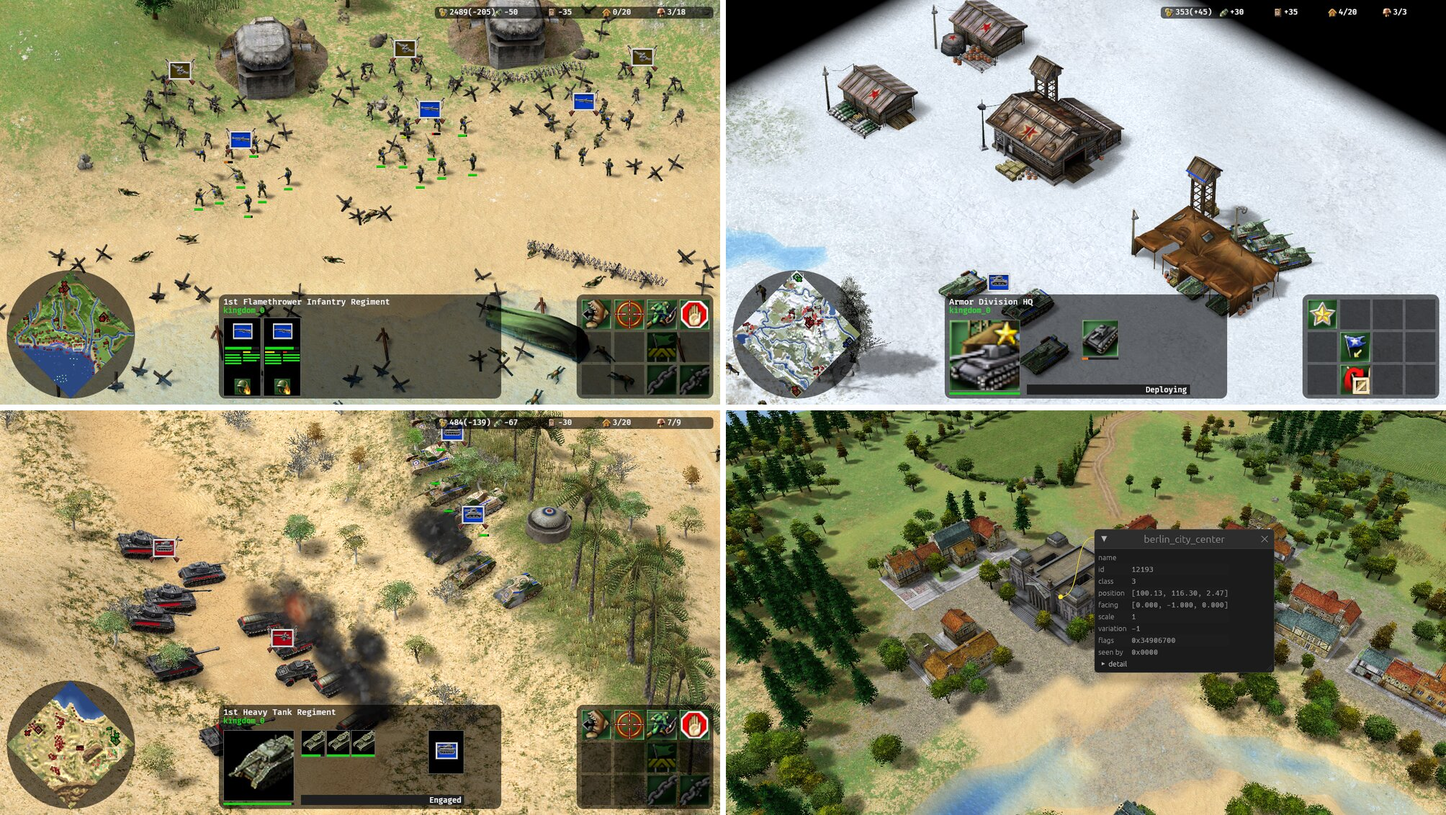
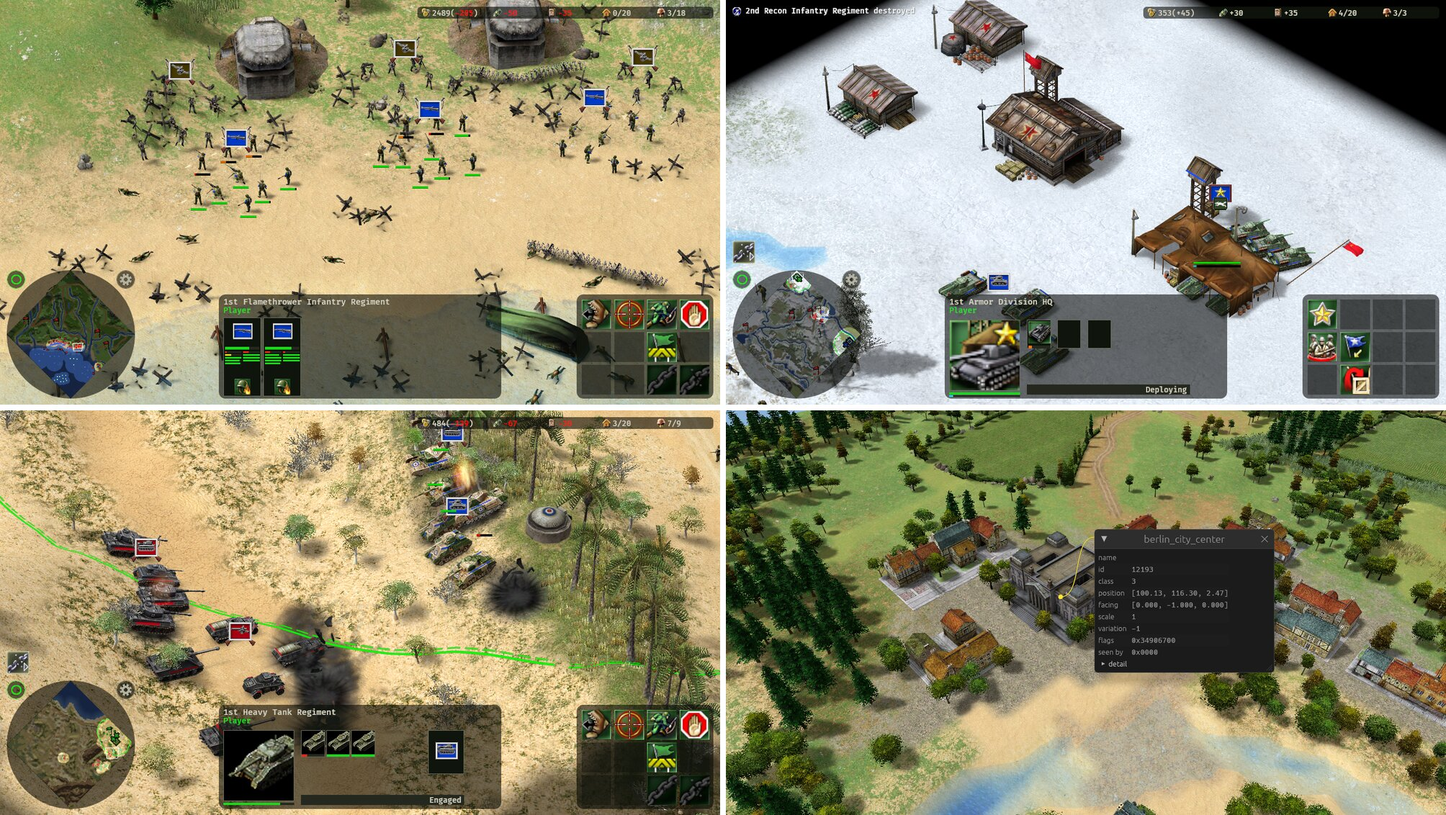
Draw the technology tab as a round gear button like the supply border's, and refresh the README screenshots (#198)

diff --git a/crates/game/src/technologies.rs b/crates/game/src/technologies.rs
@@ -1,20 +1,22 @@
 //! The technology display: a window listing the technologies the player's
-//! side holds, opened by a tab beside the minimap or its key. The match
+//! side holds, opened by a button beside the minimap or its key. The match
 //! holds still while it's up, unless it was already.
 
 use std::collections::HashMap;
 
 use aaa_data::{Id, PropertyLook};
 use aaa_render::textures;
+use bevy::asset::RenderAssetUsages;
 use bevy::image::CompressedImageFormatSupport;
 use bevy::picking::hover::Hovered;
 use bevy::prelude::*;
+use bevy::render::render_resource::{Extent3d, TextureDimension, TextureFormat};
 use bevy::ui::RelativeCursorPosition;
 use bevy::ui_widgets::{Activate, Button, ScrollArea};
 
 use crate::actions::Blocks;
 use crate::keys::Bindings;
-use crate::ui::{self, Click, Font, Hint, Ink, Marked, Surface, label, panel};
+use crate::ui::{self, Click, Edge, Font, Hint, Ink, Marked, Surface, Theme, label, panel};
 use crate::{Loaded, Local, Screen, Sim, minimap};
 
 /// What the keys that open, close and close every display panel are
@@ -23,9 +25,10 @@ pub const OPEN: &str = "ButtonTechnology";
 const CLOSE: &str = "TechnologyDisplayClose";
 const CLOSE_ALL: &str = "CloseSideOrDisplayPanel";
 
-const TAB: &str = "UI/Game/ControlPanel/SidePanelTabTechnologyUnselected.tga";
-const TAB_HELD: &str = "UI/Game/ControlPanel/SidePanelTabTechnologySelected.tga";
-const TAB_SIZE: Vec2 = Vec2::new(40.0, 52.0);
+const GEAR_SIZE: f32 = 22.0;
+/// The gear's texels across, more than it's drawn at so it stays crisp
+/// once the interface is scaled up.
+const GEAR_TEXELS: u32 = 64;
 const NAME: &str = "control_panel_ButtonTechnology_ToolTip";
 const HELP: &str = "control_panel_ButtonTechnology_tooltip_2";
 const TITLE: &str = "technology_display_Child_text";
@@ -54,9 +57,7 @@ pub struct TechDisplay {
 struct Looks {
     lines: HashMap<Id, Line>,
     formats: bevy::image::CompressedImageFormats,
-    tab: Option<Handle<Image>>,
-    tab_held: Option<Handle<Image>>,
-    /// The tab's name, to mark its key in.
+    /// The button's name, to mark its key in.
     name: String,
 }
 
@@ -68,8 +69,14 @@ struct Line {
     hint: String,
 }
 
+/// The button at the minimap's corner that opens the window: a gear in a
+/// ring like the supply border's button, lit while the window's up.
 #[derive(Component)]
-struct Tab;
+struct TechButton;
+
+/// The gear in the [`TechButton`].
+#[derive(Component)]
+struct Gear;
 
 #[derive(Component)]
 struct TechWindow;
@@ -85,7 +92,7 @@ impl Plugin for TechnologyPlugin {
             .add_systems(OnEnter(Screen::Match), spawn)
             .add_systems(
                 Update,
-                (keys, press_tab, refresh)
+                (keys, refresh)
                     .chain()
                     .after(crate::pause::Toggle)
                     .run_if(in_state(Screen::Match))
@@ -95,7 +102,11 @@ impl Plugin for TechnologyPlugin {
             )
             .add_systems(
                 Update,
-                mark_tab
+                light_button.after(keys).run_if(in_state(Screen::Match)),
+            )
+            .add_systems(
+                Update,
+                mark_button
                     .run_if(resource_exists_and_changed::<Bindings>)
                     .run_if(resource_exists::<Looks>)
                     .run_if(in_state(Screen::Match)),
@@ -115,6 +126,7 @@ pub fn closed(display: Option<Res<TechDisplay>>) -> bool {
 
 fn spawn(
     mut commands: Commands,
+    mut gear_image: bevy::prelude::Local<Option<Handle<Image>>>,
     mut loaded: ResMut<Loaded>,
     mut images: ResMut<Assets<Image>>,
     formats: Res<CompressedImageFormatSupport>,
@@ -123,11 +135,7 @@ fn spawn(
     let game = &mut loaded.game;
     let strings = game.strings();
     let said = |key: &str, or: &str| strings.get(key).map_or(or, String::as_str).to_string();
-    let mut image = |path: &str| {
-        let image = textures::decode(&game.read(path)?, path, formats.0, true)?;
-        Some(images.add(image))
-    };
-    let (tab, tab_held) = (image(TAB), image(TAB_HELD));
+    let gear = (gear_image.get_or_insert_with(|| images.add(gear(GEAR_TEXELS)))).clone();
     let looks: HashMap<Id, PropertyLook> = game.property_looks();
     let lines = (game.technologies().into_iter())
         .filter_map(|(id, t)| {
@@ -152,26 +160,41 @@ fn spawn(
     commands.insert_resource(TechDisplay::default());
     commands
         .spawn((
-            Tab,
+            TechButton,
             Blocks,
             Button,
             Click::PUSH,
             RelativeCursorPosition::default(),
             bindings.marked(OPEN, &name),
             Hint(said(HELP, "Displays a list of all your technologies.")),
-            ImageNode::new(tab.clone().unwrap_or_default()),
             // At the minimap square's other top corner from the supply
             // border's button.
             Node {
                 position_type: PositionType::Absolute,
-                left: px(crate::MARGIN + minimap::DISC - TAB_SIZE.x),
-                bottom: px(crate::MARGIN + minimap::DISC - TAB_SIZE.y),
-                width: px(TAB_SIZE.x),
-                height: px(TAB_SIZE.y),
+                left: px(crate::MARGIN + minimap::DISC - minimap::CORNER_BUTTON),
+                bottom: px(crate::MARGIN + minimap::DISC - minimap::CORNER_BUTTON),
+                width: px(minimap::CORNER_BUTTON),
+                height: px(minimap::CORNER_BUTTON),
+                border: UiRect::all(px(1)),
+                border_radius: BorderRadius::MAX,
+                justify_content: JustifyContent::Center,
+                align_items: AlignItems::Center,
                 ..default()
             },
+            Surface::Hud,
+            Edge::Border,
             GlobalZIndex(2),
             DespawnOnExit(Screen::Match),
+            children![(
+                Gear,
+                ImageNode::new(gear),
+                Node {
+                    width: px(GEAR_SIZE),
+                    height: px(GEAR_SIZE),
+                    ..default()
+                },
+                Pickable::IGNORE,
+            )],
         ))
         .observe(|_: On<Activate>, mut toggling: Toggling| toggling.toggle());
     let at = |v: f32, of: f32| percent(100.0 * v / of);
@@ -229,16 +252,18 @@ fn spawn(
     commands.insert_resource(Looks {
         lines,
         formats: formats.0,
-        tab,
-        tab_held,
         name,
     });
 }
 
-/// Marks the tab's key afresh once the hotkeys change.
-fn mark_tab(bindings: Res<Bindings>, looks: Res<Looks>, mut tabs: Query<&mut Marked, With<Tab>>) {
-    for mut tab in &mut tabs {
-        tab.set_if_neq(bindings.marked(OPEN, &looks.name));
+/// Marks the button's key afresh once the hotkeys change.
+fn mark_button(
+    bindings: Res<Bindings>,
+    looks: Res<Looks>,
+    mut buttons: Query<&mut Marked, With<TechButton>>,
+) {
+    for mut button in &mut buttons {
+        button.set_if_neq(bindings.marked(OPEN, &looks.name));
     }
 }
 
@@ -302,22 +327,91 @@ fn keys(keys: Res<ButtonInput<KeyCode>>, bindings: Res<Bindings>, mut toggling: 
     }
 }
 
-/// Shows the tab held down while it's pressed.
-fn press_tab(
-    looks: Res<Looks>,
-    mut tabs: Query<(Has<bevy::ui::Pressed>, &mut ImageNode), With<Tab>>,
+/// What [`light_button`] reads and sets on the button.
+type ButtonLook = (
+    Ref<'static, Hovered>,
+    Has<bevy::ui::Pressed>,
+    &'static mut Edge,
+    &'static mut Surface,
+);
+
+/// Lights the button while the window's up, its edge while it's hovered,
+/// and its face while it's held down.
+fn light_button(
+    display: Option<Res<TechDisplay>>,
+    theme: Res<Theme>,
+    mut buttons: Query<ButtonLook, With<TechButton>>,
+    mut gears: Query<&mut ImageNode, With<Gear>>,
 ) {
-    for (pressed, mut image) in &mut tabs {
-        let want = match pressed {
-            true => &looks.tab_held,
-            false => &looks.tab,
-        };
-        if let Some(want) = want
-            && image.image != *want
-        {
-            image.image = want.clone();
+    let Some(display) = display else { return };
+    let restyle = display.is_changed() || theme.is_changed();
+    for (hovered, pressed, mut edge, mut surface) in &mut buttons {
+        if restyle || hovered.is_changed() {
+            edge.set_if_neq(Edge::lit(display.open, hovered.get(), Edge::Border));
+        }
+        surface.set_if_neq(match pressed {
+            true => Surface::Hovered,
+            false => Surface::Hud,
+        });
+    }
+    if !restyle {
+        return;
+    }
+    let colour = match display.open {
+        true => theme.edge(Edge::Lit),
+        false => theme.ink(Ink::Help),
+    };
+    for mut gear in &mut gears {
+        if gear.color != colour {
+            gear.color = colour;
         }
     }
+}
+
+/// A white gear `texels` across on a clear ground, to be tinted.
+fn gear(texels: u32) -> Image {
+    const TEETH: f32 = 8.0;
+    const OUTER: f32 = 1.0;
+    const ROOT: f32 = 0.7;
+    const HOLE: f32 = 0.32;
+    // Each texel's coverage from a grid of samples across it.
+    const SAMPLES: u32 = 4;
+    let half = texels as f32 / 2.0;
+    let inside = |x: f32, y: f32| {
+        let (x, y) = ((x - half) / half, (y - half) / half);
+        let d = (x * x + y * y).sqrt();
+        let turn = (y.atan2(x) / std::f32::consts::TAU * TEETH).rem_euclid(1.0);
+        let rim = match (0.25..0.75).contains(&turn) {
+            true => OUTER,
+            false => ROOT,
+        };
+        d > HOLE && d < rim
+    };
+    let mut data = Vec::with_capacity((texels * texels * 4) as usize);
+    for v in 0..texels {
+        for u in 0..texels {
+            let mut hits = 0;
+            for j in 0..SAMPLES {
+                for i in 0..SAMPLES {
+                    let at = |t: u32, s: u32| t as f32 + (s as f32 + 0.5) / SAMPLES as f32;
+                    hits += inside(at(u, i), at(v, j)) as u32;
+                }
+            }
+            let alpha = (255 * hits / (SAMPLES * SAMPLES)) as u8;
+            data.extend_from_slice(&[255, 255, 255, alpha]);
+        }
+    }
+    Image::new(
+        Extent3d {
+            width: texels,
+            height: texels,
+            depth_or_array_layers: 1,
+        },
+        TextureDimension::D2,
+        data,
+        TextureFormat::Rgba8UnormSrgb,
+        RenderAssetUsages::default(),
+    )
 }
 
 /// Brings the open window's list up to date: at once on opening, then once

diff --git a/crates/game/src/supply.rs b/crates/game/src/supply.rs
@@ -194,7 +194,6 @@ pub struct BorderButton {
 #[derive(Component)]
 pub struct BorderRing;
 
-const BORDER_SIZE: f32 = 34.0;
 const RING_SIZE: f32 = 18.0;
 const BORDER_NAME: &str = "control_panel_ButtonSupplyBorder_ToolTip";
 const BORDER_HELP: &str = "control_panel_ButtonSupplyBorder_tooltip_2";
@@ -243,9 +242,9 @@ pub fn spawn(
             Node {
                 position_type: PositionType::Absolute,
                 left: px(crate::MARGIN),
-                bottom: px(crate::MARGIN + minimap::DISC - BORDER_SIZE),
-                width: px(BORDER_SIZE),
-                height: px(BORDER_SIZE),
+                bottom: px(crate::MARGIN + minimap::DISC - minimap::CORNER_BUTTON),
+                width: px(minimap::CORNER_BUTTON),
+                height: px(minimap::CORNER_BUTTON),
                 border: UiRect::all(px(1)),
                 border_radius: BorderRadius::MAX,
                 justify_content: JustifyContent::Center,
@@ -407,11 +406,7 @@ pub fn show_border_button(
             button.pressed = false;
         }
         if restyle || hovered.is_changed() {
-            edge.set_if_neq(match (border.0, hovered.get()) {
-                (true, _) => Edge::Lit,
-                (false, true) => Edge::Hovered,
-                (false, false) => Edge::Border,
-            });
+            edge.set_if_neq(Edge::lit(border.0, hovered.get(), Edge::Border));
         }
     }
     if !restyle {

diff --git a/crates/game/src/ui.rs b/crates/game/src/ui.rs
@@ -192,6 +192,18 @@ pub enum Edge {
     Lit,
 }
 
+impl Edge {
+    /// Frames a button that switches something on: lit while it's on, else
+    /// hovered while it's under the pointer, else `idle`.
+    pub fn lit(on: bool, hovered: bool, idle: Edge) -> Edge {
+        match (on, hovered) {
+            (true, _) => Edge::Lit,
+            (false, true) => Edge::Hovered,
+            (false, false) => idle,
+        }
+    }
+}
+
 /// How brightly a picture is drawn.
 #[derive(Component, Clone, Copy, PartialEq, Eq, Debug)]
 #[require(ImageNode)]

diff --git a/crates/game/src/actions.rs b/crates/game/src/actions.rs
@@ -1090,11 +1090,7 @@ pub fn show(
                 },
             });
         }
-        border.set_if_neq(match (lit, hover.get() && ready) {
-            (true, _) => Edge::Lit,
-            (false, true) => Edge::Hovered,
-            (false, false) => Edge::Clear,
-        });
+        border.set_if_neq(Edge::lit(lit, hover.get() && ready, Edge::Clear));
         let shade = match ready {
             true => Shade::Full,
             false => Shade::Dimmed,

diff --git a/crates/game/src/minimap.rs b/crates/game/src/minimap.rs
@@ -26,6 +26,8 @@ use aaa_sim::{Relation, State};
 /// Width of the disc on screen, in logical pixels, which the diamond's
 /// corners touch.
 pub const DISC: f32 = 236.0;
+/// Width of the round buttons in the corners the disc leaves of its square.
+pub const CORNER_BUTTON: f32 = 34.0;
 /// Pixels across the minimap's image, enough for a sharp diamond on a
 /// high-density screen.
 const PIXELS: usize = 512;
